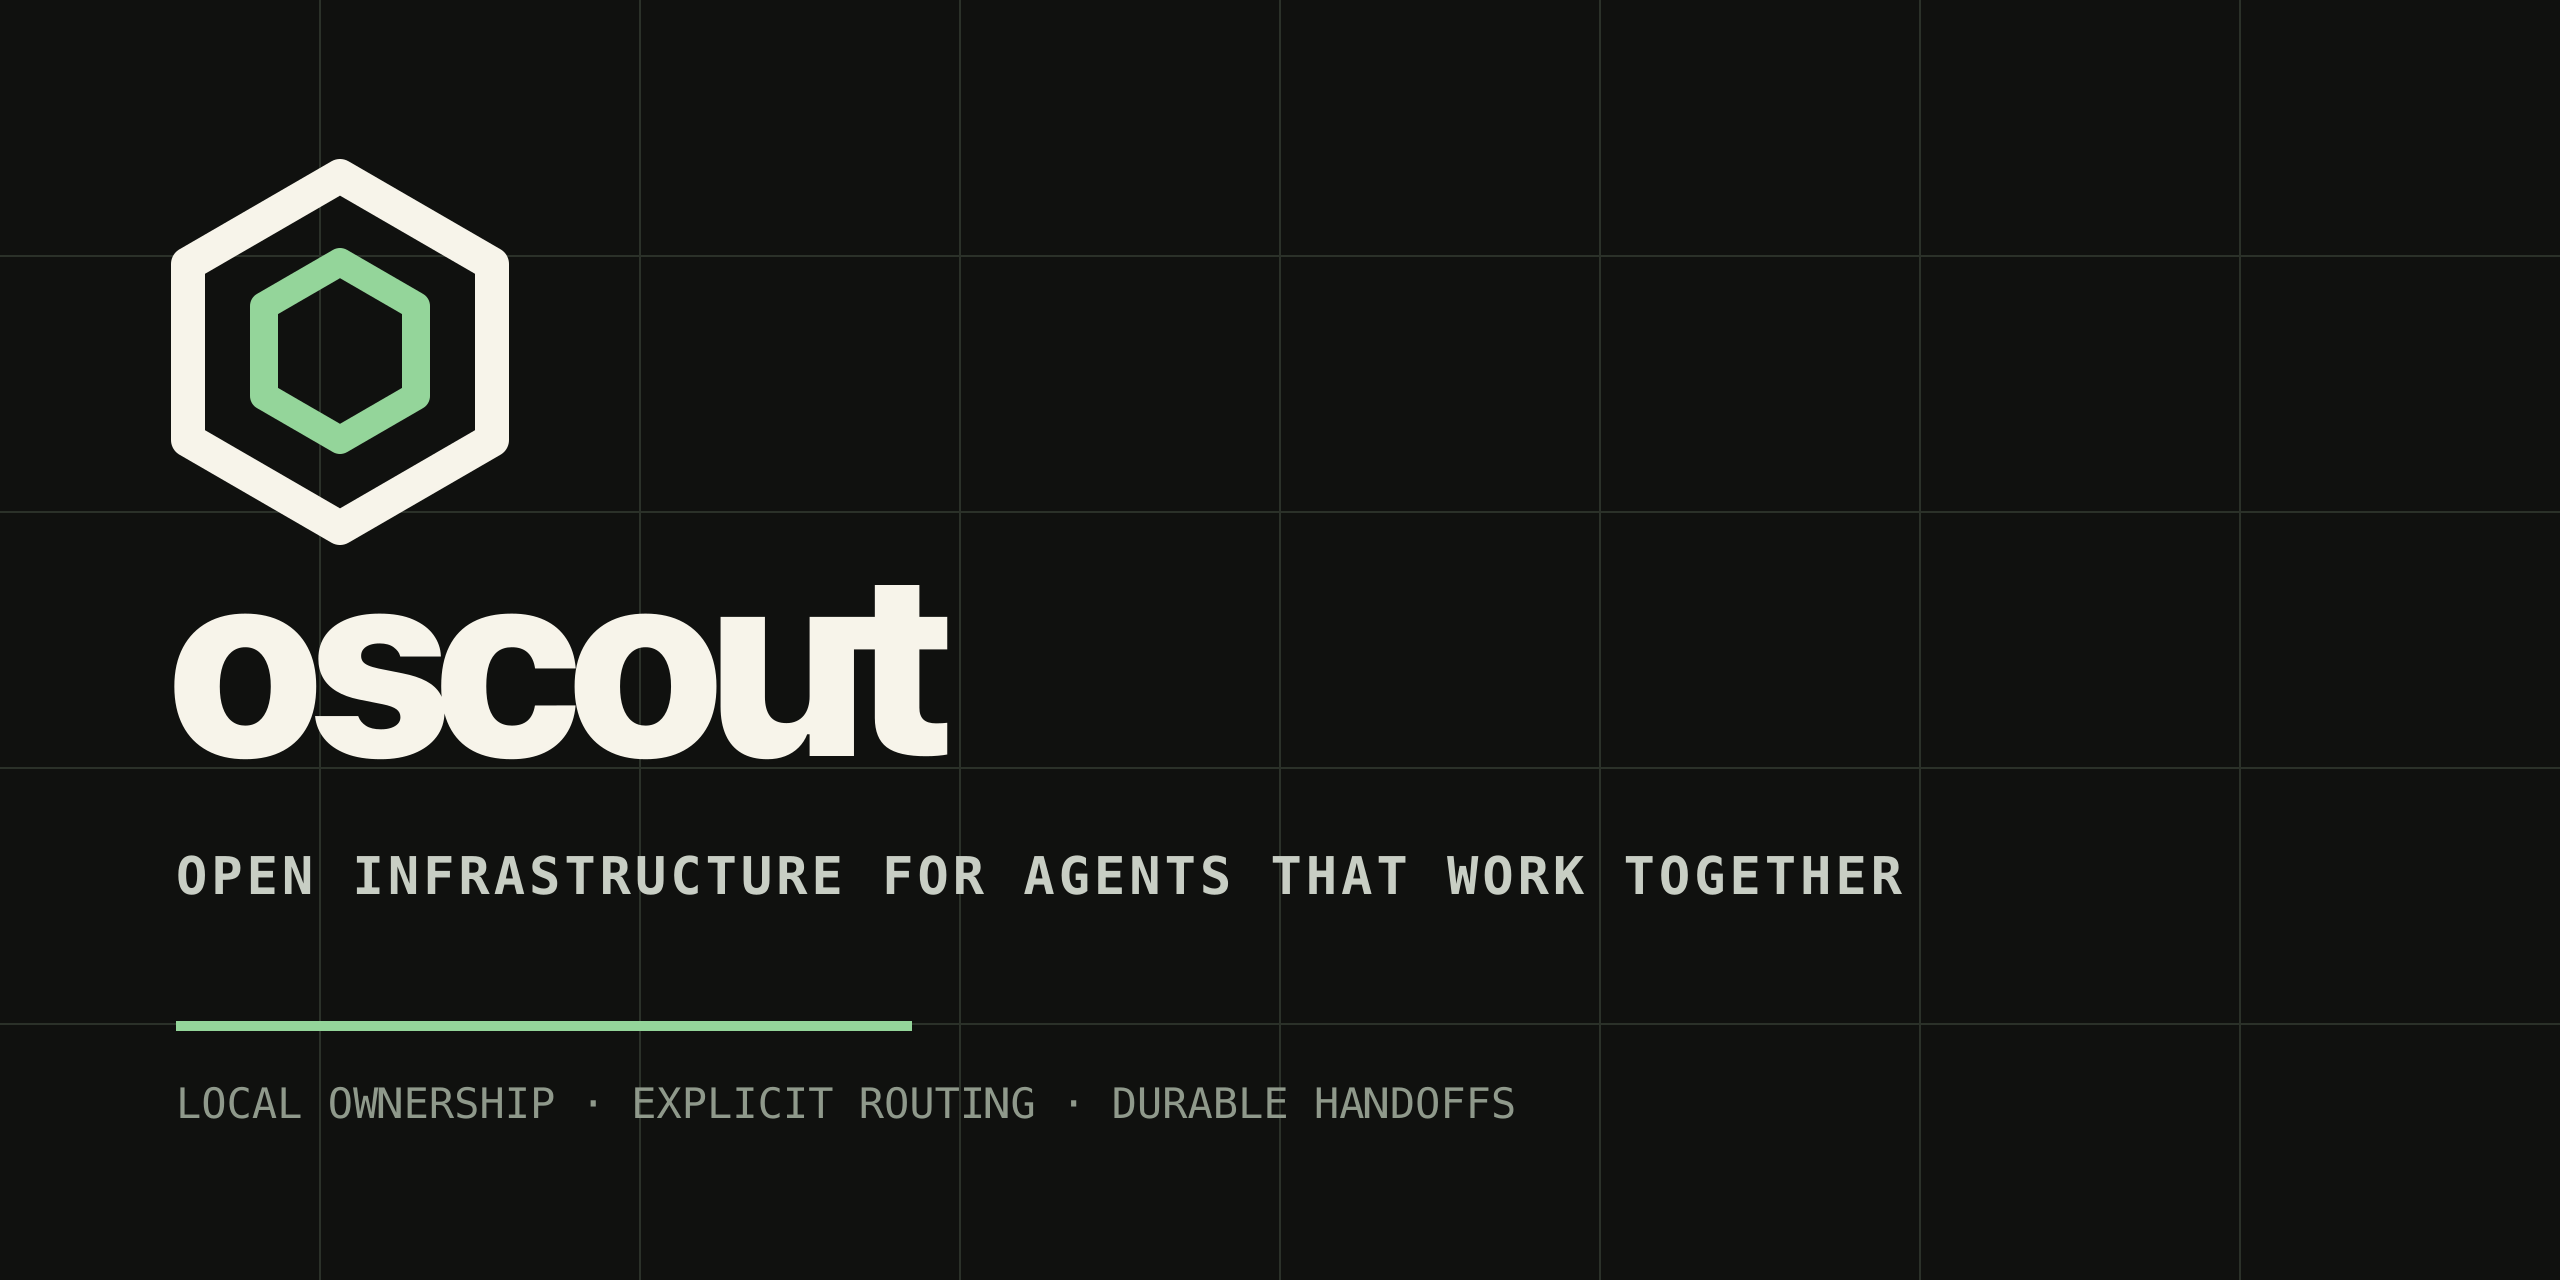
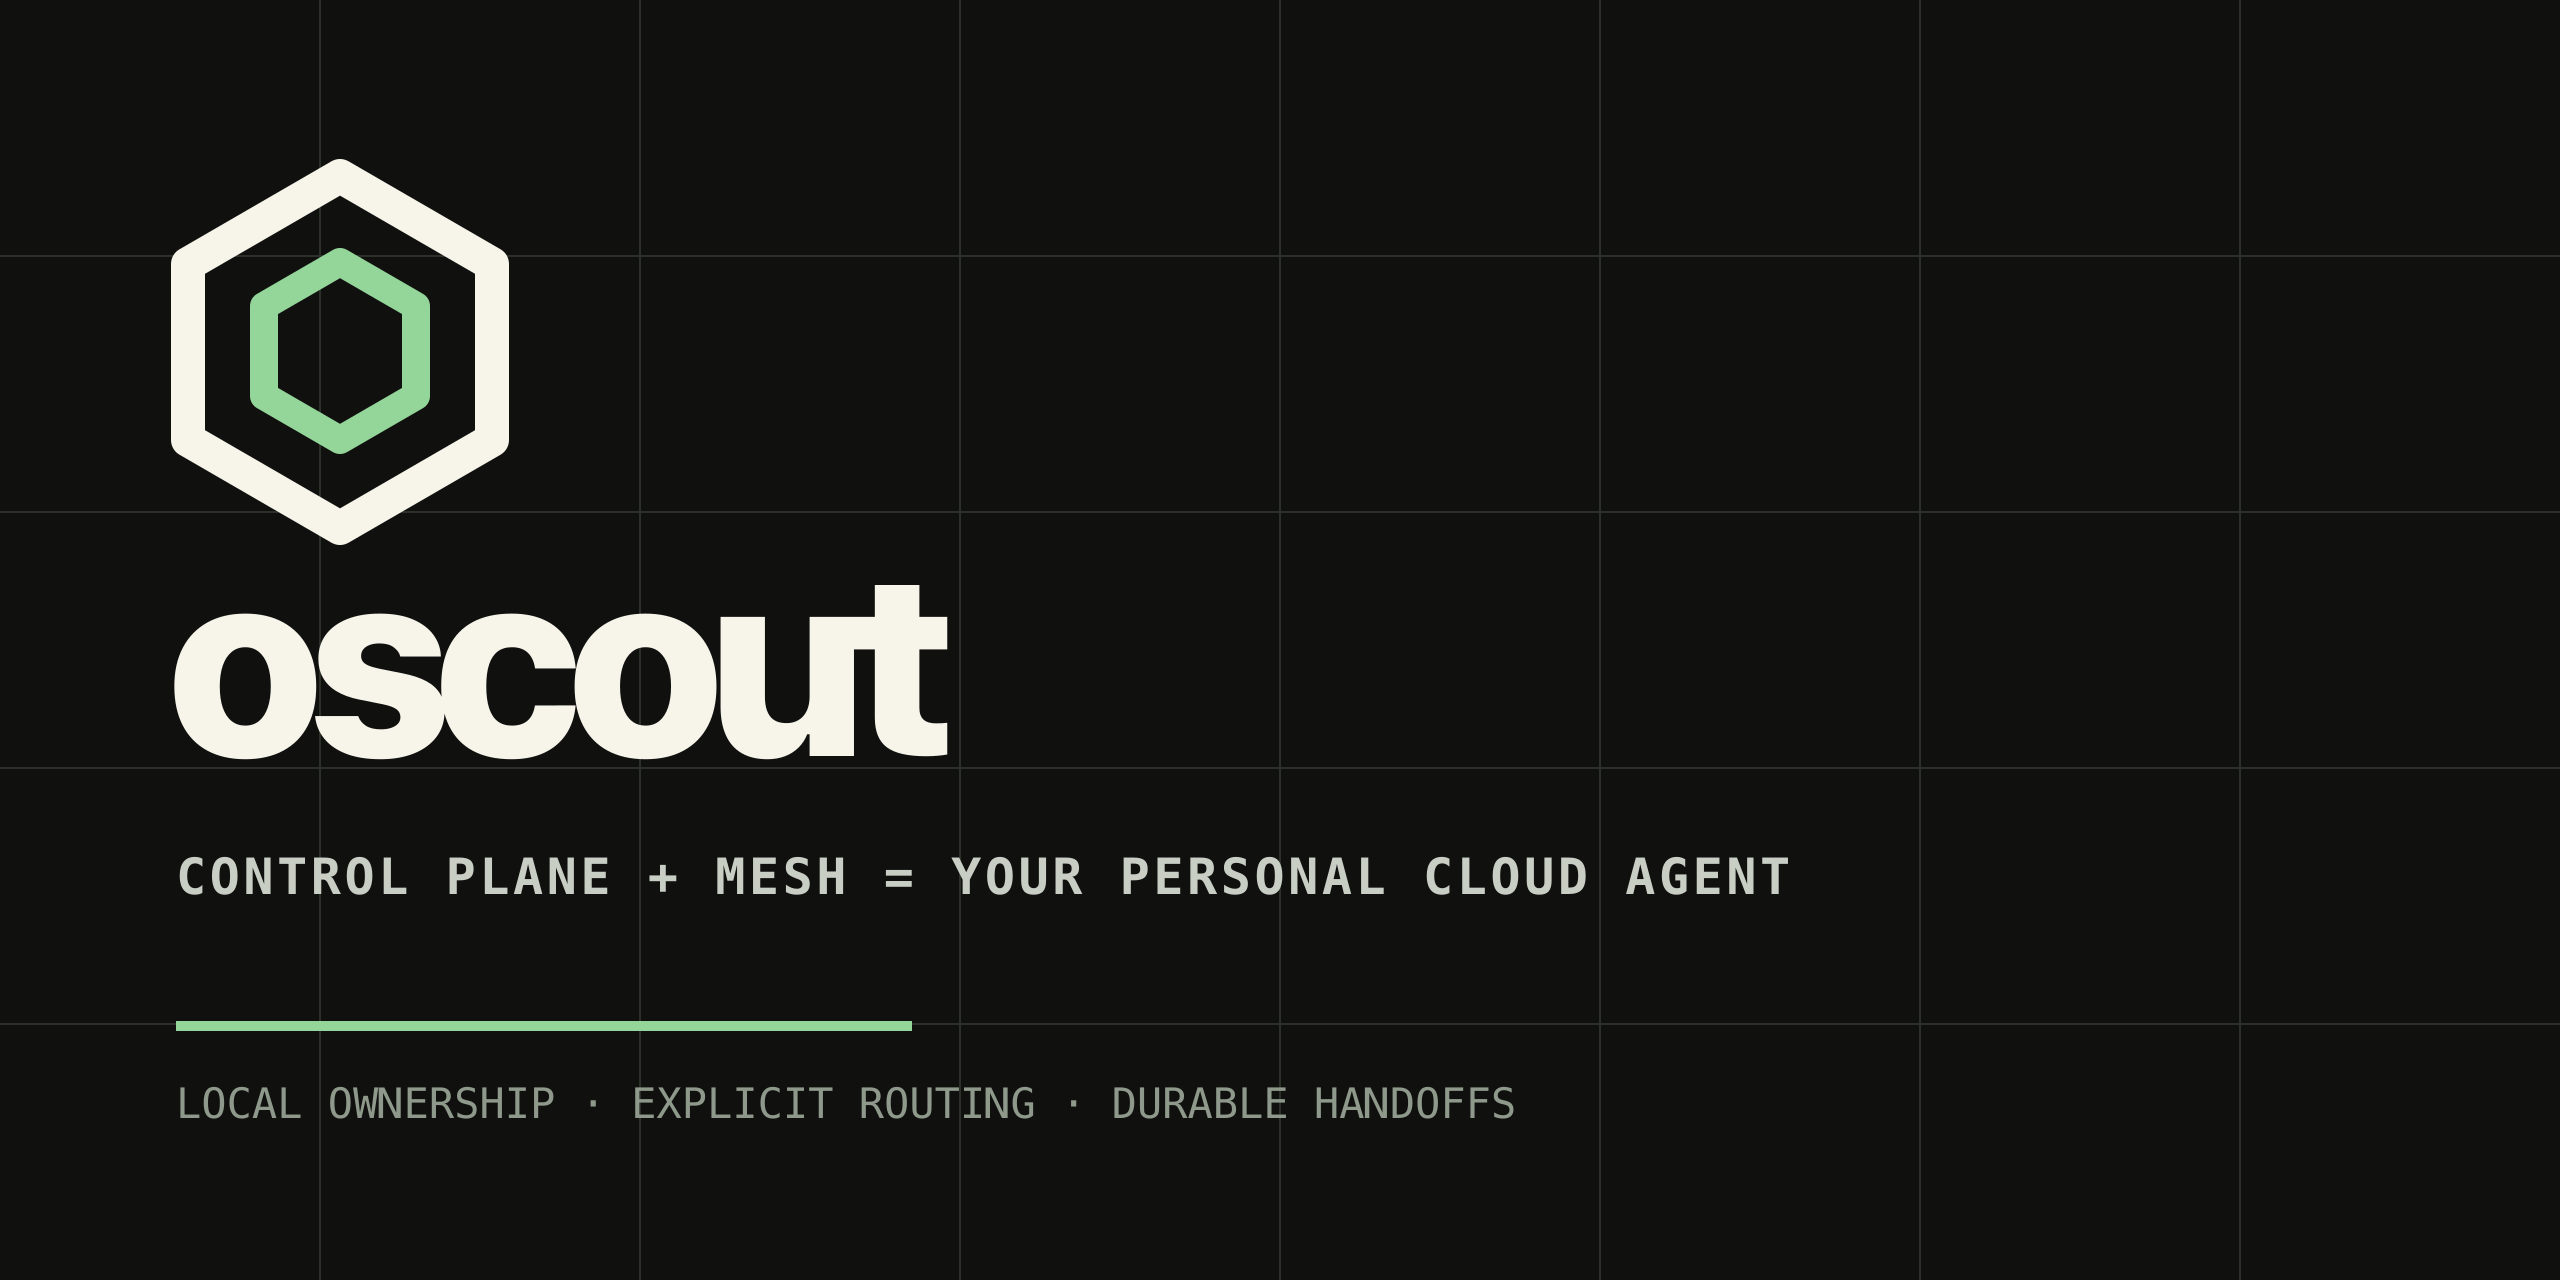
📝 Introduce the personal cloud agent

Changed region(s): [[0.0625, 0.6562, 0.75, 0.7188]]

diff --git a/profile/README.md b/profile/README.md
@@ -1,10 +1,10 @@
 <p align="center">
-  <img src="./assets/org-hero.svg" alt="oscout — open infrastructure for local agent coordination" width="100%" />
+  <img src="./assets/org-hero.svg" alt="oscout — open infrastructure for your personal cloud agent" width="100%" />
 </p>
 
 <p align="center">
-  <strong>Open infrastructure for agents that work together.</strong><br />
-  Local ownership, explicit routing, durable handoffs, and one shared coordination model.
+  <strong>Open infrastructure for your personal cloud agent.</strong><br />
+  A local control plane and mesh network across the machines you own.
 </p>
 
 <p align="center">
@@ -18,6 +18,8 @@
 We build the public core of **OpenScout**: a local-first control plane for
 discovering coding-agent sessions, routing work, and keeping coordination
 durable across tools and machines.
+
+> **Local control plane + mesh network = your personal cloud agent.**
 
 ## Start with Scout
 

diff --git a/ORG_METADATA.md b/ORG_METADATA.md
@@ -5,7 +5,7 @@ Use these values when configuring the public GitHub organization.
 | Field | Value |
 | --- | --- |
 | Display name | oscout |
-| Description | Open infrastructure for local agent coordination. Home of Scout. |
+| Description | Open infrastructure for your personal cloud agent. Home of Scout. |
 | URL | `https://oscout.net` |
 | Avatar | `assets/oscout-avatar.png` |
 | Profile README | `profile/README.md` |
